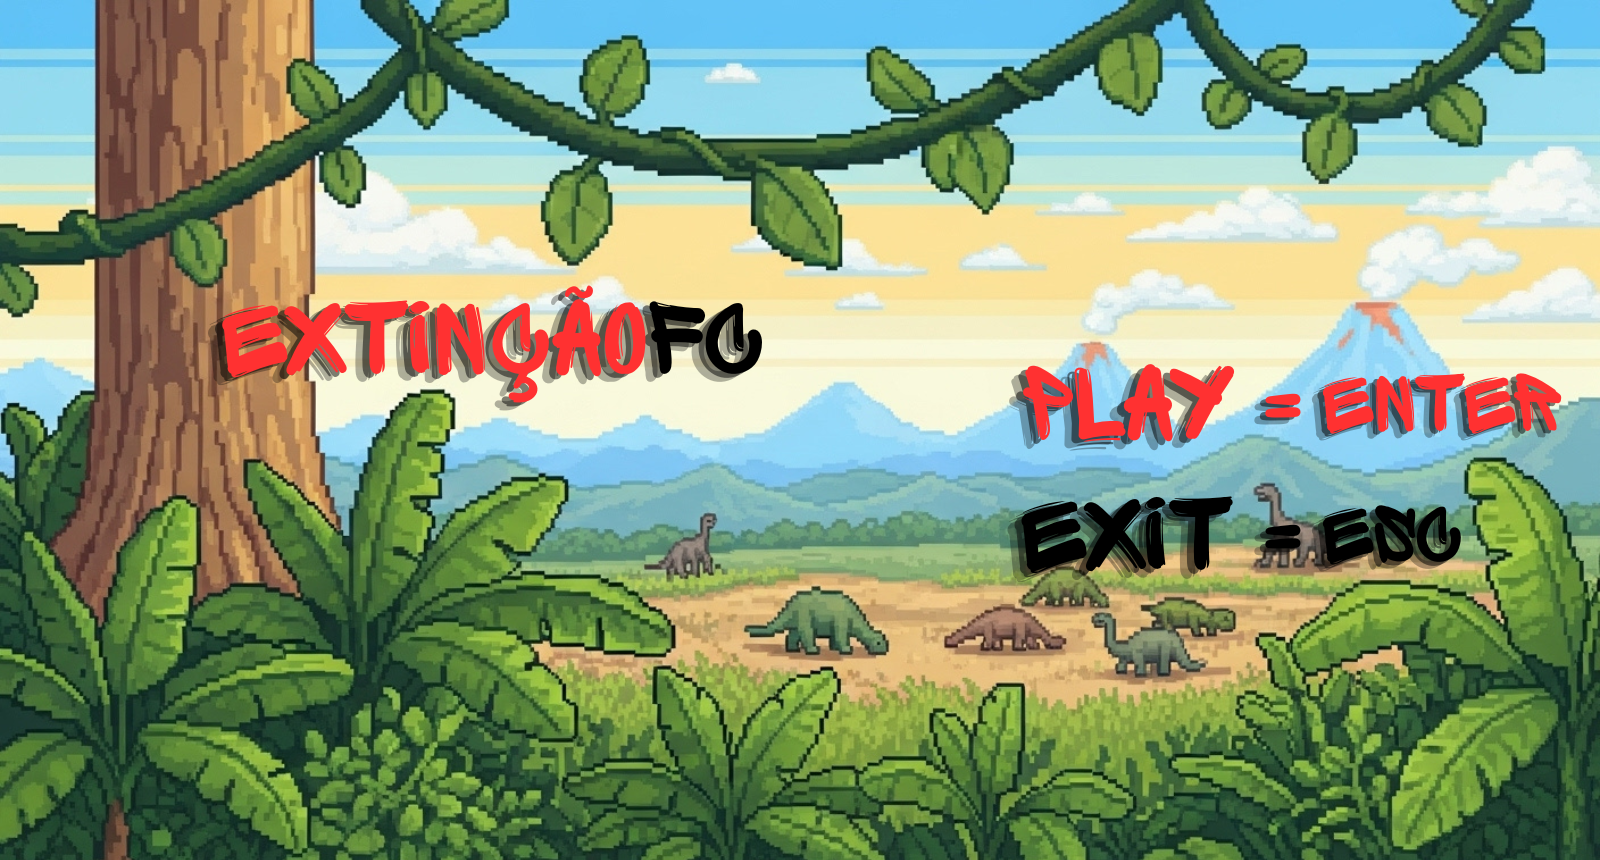
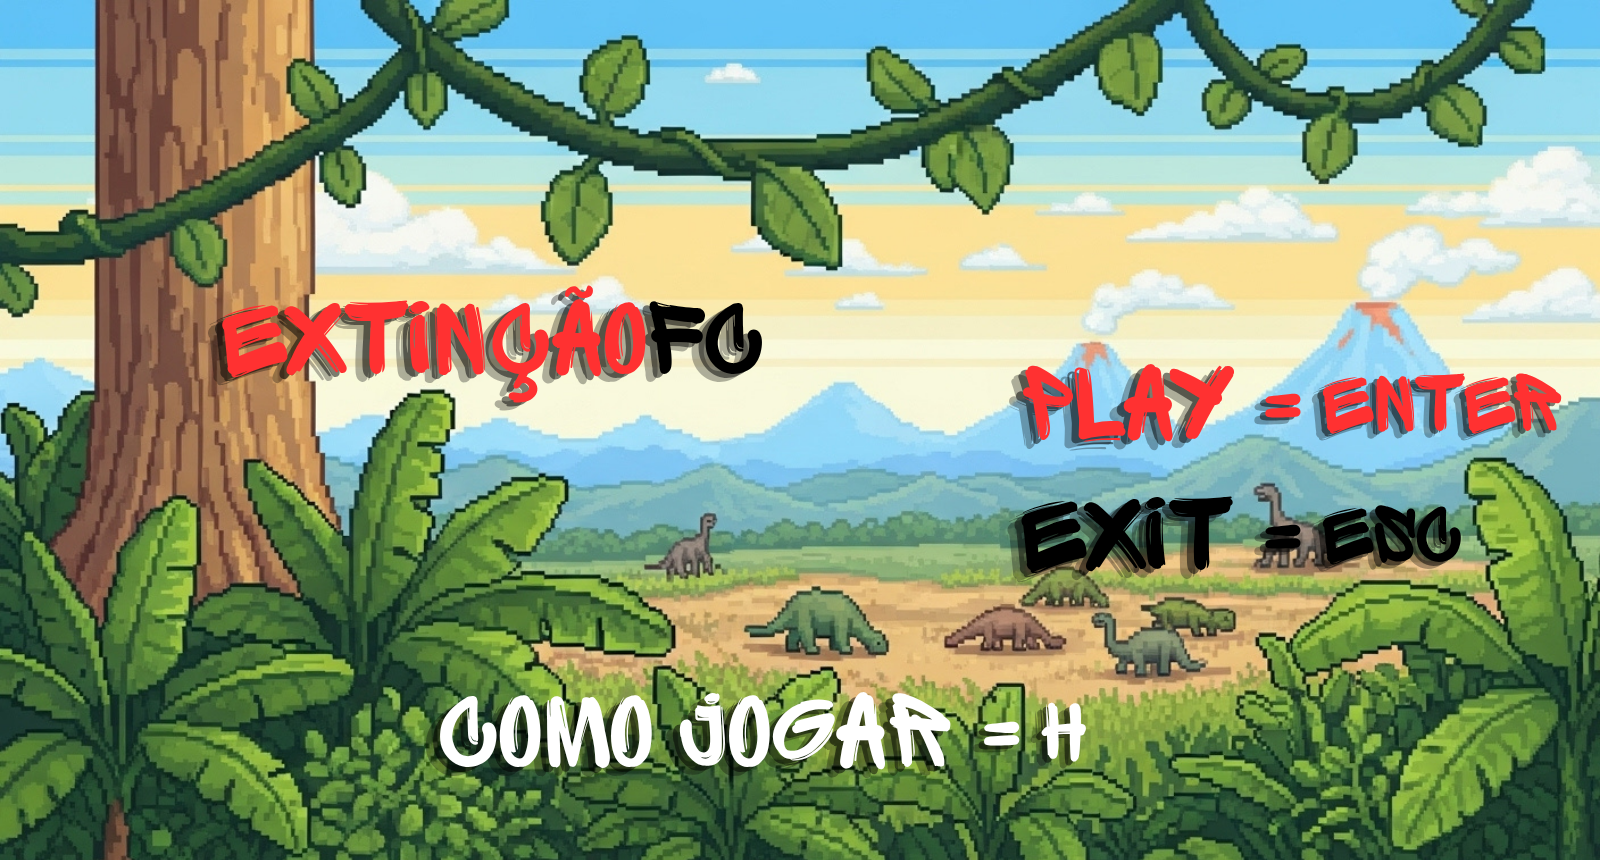
Ajustes nas arenas, tela de ajuda, e ajustes na tela game over

Changed region(s): [[0.25, 0.786, 0.6875, 0.907]]

diff --git a/ExtincaoFC/GameOver.cpp b/ExtincaoFC/GameOver.cpp
@@ -15,13 +15,13 @@ void GameOver::Init()
     // 2. Define o nome e cria o objeto do vencedor baseado nas vitórias globais
     if (gTotalWinsTrex > gTotalWinsTriceratops)
     {
-        winnerText = "T-REX EH O GRANDE CAMPEAO!";
+        winnerText = "T-REX: O GRANDE CAMPEAO!";
         // Criamos o objeto do T-Rex centralizado
         winnerObj = new Player(TREX, window->CenterX(), window->CenterY() + 80);
     }
     else if (gTotalWinsTriceratops > gTotalWinsTrex)
     {
-        winnerText = "TRICERATOPS EH O GRANDE CAMPEAO!";
+        winnerText = "TRICERATOPS: O GRANDE CAMPEAO!";
         // Criamos o objeto do Triceratops centralizado
         winnerObj = new Player(TRICERATOPS, window->CenterX(), window->CenterY() + 80);
     }
@@ -80,13 +80,13 @@ void GameOver::Draw()
 
     if (smallFonts) {
         // Exibe o Nome do Vencedor em destaque
-        smallFonts->Draw(window->CenterX() - 500, 80, winnerText, yellow, Layer::FRONT, 3.0f);
+        smallFonts->Draw(window->CenterX() - 450, 90, winnerText, yellow, Layer::FRONT, 3.0f);
 
         // Exibe o Placar de Arenas
-        smallFonts->Draw(window->CenterX() - 200, 160, scoreText, white, Layer::FRONT, 2.0f);
+        smallFonts->Draw(window->CenterX() - 200, 180, scoreText, yellow, Layer::FRONT, 2.0f);
 
         // Exibe o Placar de Gols Acumulados
-        smallFonts->Draw(window->CenterX() - 180, 220, goalsText, white, Layer::FRONT, 1.0f);
+        smallFonts->Draw(window->CenterX() - 180, 240, goalsText, yellow, Layer::FRONT, 1.0f);
 
         smallFonts->Draw(window->CenterX() - 280, window->Height() - 90, "PRESSIONE ENTER PARA SAIR", white, Layer::FRONT, 1.5f);
         smallFonts->Draw(window->CenterX() - 280, window->Height() - 60, "PRESSIONE 'R' PARA REINICIAR", white, Layer::FRONT, 1.0f);

diff --git a/ExtincaoFC/Arena1.cpp b/ExtincaoFC/Arena1.cpp
@@ -235,25 +235,26 @@ bool Arena1::TreatMatchEnding()
     }
 
     if (matchEnded) {
-        audio->Play(FINAL_WHISTLE);
+        // 1. Toca o apito usando o gAudio global
+        gAudio->Play(FINAL_WHISTLE);
 
-        // --- NOVIDADE: ACUMULA OS GOLS PARA O PLACAR GERAL ---
+        // 2. ACUMULA OS GOLS PARA O PLACAR GERAL (A "buniteza" que faltava)
         gTotalGolsTrex += lastTrexScore;
         gTotalGolsTriceratops += lastTriceratopsScore;
 
-        // Atualiza placar global de vitórias (estrelas)
+        // 3. Atualiza placar global de vitórias (estrelas)
         if (matchWinner == TREX) gTotalWinsTrex++;
         else if (matchWinner == TRICERATOPS) gTotalWinsTriceratops++;
 
         gCurrentMatch++; // Avança o contador de partidas
 
-        // Lógica de MD3: Alguém já ganhou 2? Ou já jogamos as 3?
+        // 4. Lógica de transição
+        // Se alguém já ganhou 2 arenas, vai direto para o GameOver
         if (gTotalWinsTrex == 2 || gTotalWinsTriceratops == 2 || gCurrentMatch > 3) {
-            // Agora que o GameOver está pronto, mude para:
             Engine::Next<GameOver>();
         }
         else {
-            // Se ninguém ganhou 2 ainda, vai para a Arena 2
+            // Caso contrário, segue o campeonato para a Arena 2
             Engine::Next<Arena2>();
         }
         return true;

diff --git a/ExtincaoFC/Home.cpp b/ExtincaoFC/Home.cpp
@@ -13,6 +13,7 @@
 #include "Home.h"
 #include "ExtincaoFC.h"
 #include "Arena1.h"
+#include "Help.h"
 
 // ------------------------------------------------------------------------------
 
@@ -32,13 +33,15 @@ void Home::Finalize()
 
 void Home::Update()
 {
-    // sai do jogo com a tecla ESC
     if (window->KeyPress(VK_ESCAPE))
         window->Close();
 
-    // passa ao primeiro nível com ENTER
     if (window->KeyPress(VK_RETURN))
         Engine::Next<Arena1>();
+
+    // NOVIDADE: Abre a tela de ajuda ao pressionar 'H'
+    if (window->KeyPress('H'))
+        Engine::Next<Help>();
 }
 
 // ------------------------------------------------------------------------------

diff --git a/ExtincaoFC/Help.cpp b/ExtincaoFC/Help.cpp
@@ -1,0 +1,31 @@
+#include "Help.h"
+#include "Home.h"
+#include "Arena1.h"
+#include "Engine.h"
+
+void Help::Init()
+{
+    // Certifique-se de criar essa imagem "HelpScreen.png" na pasta Resources
+    backg = new Sprite("Resources/HelpScreen.png");
+}
+
+void Help::Update()
+{
+    // Inicia o game direto da ajuda
+    if (window->KeyPress(VK_RETURN))
+        Engine::Next<Arena1>();
+
+    // Volta para a Home (Menu)
+    if (window->KeyPress(VK_BACK) || window->KeyPress(VK_ESCAPE))
+        Engine::Next<Home>();
+}
+
+void Help::Draw()
+{
+    backg->Draw(window->CenterX(), window->CenterY(), Layer::BACK);
+}
+
+void Help::Finalize()
+{
+    delete backg;
+}

diff --git a/ExtincaoFC/Arena3.cpp b/ExtincaoFC/Arena3.cpp
@@ -14,7 +14,7 @@ void Arena3::Init()
 
     // 2. Troca o fundo para o definitivo da Arena 3
     delete backg;
-    backg = new Sprite("Resources/Sky.png");
+    backg = new Sprite("Resources/background_arena3.png");
 
     // O kickoff usará o BallDirection() da Arena 1 (Padrão)
     ResetMatch();
@@ -72,6 +72,8 @@ bool Arena3::TreatMatchEnding()
 {
     if (matchTimer <= 0 || player1->Score() >= SCORE_TO_WIN || player2->Score() >= SCORE_TO_WIN)
     {
+        gAudio->Play(FINAL_WHISTLE);
+
         // --- ACUMULA OS GOLS DA ARENA 3 ---
         gTotalGolsTrex += player1->Score();
         gTotalGolsTriceratops += player2->Score();

diff --git a/ExtincaoFC/Arena2.cpp b/ExtincaoFC/Arena2.cpp
@@ -155,6 +155,8 @@ bool Arena2::TreatMatchEnding()
 {
     if (matchTimer <= 0 || player1->Score() >= SCORE_TO_WIN || player2->Score() >= SCORE_TO_WIN)
     {
+        gAudio->Play(FINAL_WHISTLE);
+
         // --- ACUMULA OS GOLS DA ARENA 2 ---
         gTotalGolsTrex += player1->Score();
         gTotalGolsTriceratops += player2->Score();

diff --git a/ExtincaoFC/Help.h b/ExtincaoFC/Help.h
@@ -1,0 +1,19 @@
+#ifndef _HELP_H_
+#define _HELP_H_
+
+#include "Game.h"
+#include "Sprite.h"
+
+class Help : public Game
+{
+private:
+    Sprite* backg = nullptr;
+
+public:
+    void Init();
+    void Update();
+    void Draw();
+    void Finalize();
+};
+
+#endif
